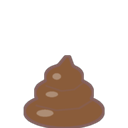
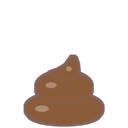
feat(art): poop takes the classic emoji outline and rolls heavily when thrown
Fat base, round upper lobe and a tip curling right, without a face, in both
round and pixel styles. Thrown poop still splats with almost no bounce but
now turns over as it slows instead of only sliding.

Claude-Session: https://claude.ai/code/session_01QTKFeeLBUNBZhj6R6jJCZF

diff --git a/ui/help.html b/ui/help.html
@@ -148,7 +148,7 @@
         <li>친구가 연결된 쪽(왼쪽·오른쪽·위·아래) 화면 끝으로 <b>세게 던지면</b> 친구 화면으로 날아가요. 돌아오지 않아요. 받은 물건은 화면에 20개까지 남고, 넘치면 오래된 것부터 사라져요.</li>
         <li><b>친구랑 놀기 ▸ 친구 이름 ▸ 🗑 물건 10개 던지기</b>: 여러 가지 쓰레기 10개를 친구 화면으로 던져요. 똥은 빠지고, 내 화면의 쓰레기도 그대로예요. 친구가 집중 중이거나 하우스 안이면 되돌아와요. 많이 던졌다면 나머지는 6초에 하나씩 날아가요.</li>
         <li>💩 <b>똥</b>: 마우스를 누를 때 화면 위 동물(놀러 온 친구 동물도)이 가끔 똥을 싸요. 자주 누르면 한 마리당 15~20분에 하나쯤이고, 싸고 나면 10~20분은 안 싸요. 누른 자리나 대상은 쓰지도 남기지도 않아요. 날아다니는 동물은 공중에서 떨어뜨리고, 똥은 둘둘 쌓인 모양이고, 토끼 똥은 동글동글 알갱이예요. <b>⚙ 설정 ▸ 💩 펫이 똥 싸기</b>로 끌 수 있어요 (꺼도 친구가 던진 똥은 받아요. 받기 싫으면 집중 모드나 하우스로 막아요). 집중 중, 자리 비움, 전체 화면, 모두 숨기기 중이거나 동물이 들려 있고 공중에 있고 먹는 중이면 안 싸요.</li>
-        <li>똥도 물건처럼 끌고 던지고 친구에게 보낼 수 있고 <b>이것만 치우기</b>·<b>쓰레기 다 치우기</b>로 치워요 (친구가 집중 중이거나 하우스 안이면 되돌아와요). 화면에 <b>10개</b>까지이고 넘치면 오래된 것부터, 그냥 둬도 <b>30분</b>쯤이면 스르륵 사라져요. 물건 수에는 세지 않고, 메뉴로 꺼낼 수 없고, 바람에 구르지 않고, 포스트잇도 못 붙여요.</li>
+        <li>똥도 물건처럼 끌고 던질 수 있어요. 철퍽 붙은 뒤 묵직하게 구르고, 친구에게 보낼 수 있고 <b>이것만 치우기</b>·<b>쓰레기 다 치우기</b>로 치워요 (친구가 집중 중이거나 하우스 안이면 되돌아와요). 화면에 <b>10개</b>까지이고 넘치면 오래된 것부터, 그냥 둬도 <b>30분</b>쯤이면 스르륵 사라져요. 물건 수에는 세지 않고, 메뉴로 꺼낼 수 없고, 바람에 구르지 않고, 포스트잇도 못 붙여요.</li>
         <li>걷던 동물이 앞의 똥을 보면 대개 "ew!" 하고 돌아서거나 뛰어넘어요. 가끔 못 보고 밟으면 꽈당 넘어졌다 투덜대며 일어나요.</li>
         <li><b>포스트잇</b>: 물건을 우클릭해 <b>포스트잇 붙이기…</b>로 한 줄(80자)을 써서 던져요. 받은 사람이 누르면 <b>10초</b> 보이고, 그 뒤엔 영영 사라져 다시 볼 수 없어요.</li>
       </ul>

diff --git a/crates/screenpet-core/src/tumble.rs b/crates/screenpet-core/src/tumble.rs
@@ -103,8 +103,8 @@ pub fn shape_of(kind: ObjectKind) -> Shape {
         ObjectKind::Milk => Shape { pivot: (64.0, 92.0), reach: 46.0, hull: &[(38.0, 92.0), (39.0, 80.0), (46.0, 52.0), (82.0, 52.0), (88.0, 76.0), (91.0, 111.0), (91.0, 115.0), (89.0, 127.0), (88.0, 128.0), (41.0, 128.0), (39.0, 126.0), (38.0, 115.0)] },
         ObjectKind::Sock => Shape { pivot: (62.0, 112.0), reach: 62.0, hull: &[(2.0, 111.0), (4.0, 100.0), (16.0, 94.0), (84.0, 93.0), (113.0, 97.0), (119.0, 100.0), (122.0, 107.0), (122.0, 119.0), (119.0, 125.0), (110.0, 128.0), (8.0, 128.0), (3.0, 124.0)] },
         ObjectKind::Umbrella => Shape { pivot: (67.0, 69.0), reach: 57.0, hull: &[(23.0, 67.0), (37.0, 50.0), (62.0, 31.0), (67.0, 31.0), (109.0, 43.0), (115.0, 45.0), (112.0, 75.0), (64.0, 123.0), (59.0, 124.0), (50.0, 122.0), (48.0, 120.0), (23.0, 75.0)] },
-        ObjectKind::Poop => Shape { pivot: (64.0, 99.0), reach: 45.0, hull: &[(24.0, 106.0), (45.0, 71.0), (65.0, 55.0), (70.0, 55.0), (83.0, 71.0), (103.0, 104.0), (104.0, 117.0), (93.0, 125.0), (82.0, 128.0), (46.0, 128.0), (29.0, 122.0), (24.0, 117.0)] },
-        ObjectKind::Dropping => Shape { pivot: (64.0, 107.0), reach: 34.0, hull: &[(35.0, 111.0), (50.0, 86.0), (64.0, 75.0), (69.0, 75.0), (86.0, 98.0), (93.0, 111.0), (93.0, 120.0), (90.0, 124.0), (80.0, 128.0), (48.0, 128.0), (38.0, 124.0), (35.0, 120.0)] },
+        ObjectKind::Poop => Shape { pivot: (64.0, 98.0), reach: 46.0, hull: &[(24.0, 103.0), (36.0, 79.0), (70.0, 55.0), (78.0, 57.0), (92.0, 79.0), (104.0, 103.0), (105.0, 111.0), (98.0, 121.0), (81.0, 126.0), (47.0, 126.0), (30.0, 121.0), (24.0, 114.0)] },
+        ObjectKind::Dropping => Shape { pivot: (64.0, 106.0), reach: 34.0, hull: &[(35.0, 109.0), (44.0, 91.0), (67.0, 75.0), (74.0, 75.0), (84.0, 91.0), (93.0, 109.0), (93.0, 119.0), (85.0, 125.0), (76.0, 127.0), (52.0, 127.0), (43.0, 125.0), (35.0, 119.0)] },
         ObjectKind::Pellets => Shape { pivot: (64.0, 116.0), reach: 48.0, hull: &[(19.0, 116.0), (21.0, 113.0), (39.0, 102.0), (45.0, 102.0), (105.0, 104.0), (109.0, 107.0), (110.0, 109.0), (110.0, 115.0), (107.0, 119.0), (91.0, 128.0), (22.0, 128.0), (19.0, 125.0)] },
     }
 }
@@ -148,8 +148,8 @@ pub fn heft_of(kind: ObjectKind) -> Heft {
         // 양말: 흐물흐물 — 천천히 돌다 철퍼덕 떨어져 거의 안 튀고 안 구른다
         ObjectKind::Sock => h(0.25, 380.0, 1500.0, 60.0, 18.0, 0.05, 0.35, 0.15, 25.0),
         ObjectKind::Umbrella => h(0.4, 600.0, 950.0, 34.0, 10.0, 0.2, 0.65, 0.55, 40.0),
-        // 똥: 말랑해서 철퍽 — 거의 안 튀고, 조금 미끄러지다 멈춘다
-        ObjectKind::Poop | ObjectKind::Dropping | ObjectKind::Pellets => h(0.3, 420.0, 1100.0, 40.0, 16.0, 0.04, 0.5, 0.2, 15.0),
+        // 똥: 철퍽 붙어 거의 안 튀고, 무겁게 데굴 구르다 멈춘다
+        ObjectKind::Poop | ObjectKind::Dropping | ObjectKind::Pellets => h(0.3, 420.0, 900.0, 18.0, 16.0, 0.04, 0.5, 0.2, 15.0),
     }
 }
 

diff --git a/tools/draw_objects.py b/tools/draw_objects.py
@@ -205,27 +205,28 @@ def draw_umbrella(img):
 
 
 def swirl(img, x0, x1, height, colour):
-    """둘둘 쌓인 똥: 아래로 갈수록 넓은 세 겹에 위로 뾰족한 꼭지. 겹 사이는 비스듬한 어두운 줄, 왼쪽 위가 밝다."""
+    """전형적인 똥 (얼굴 없는 💩): 뚱뚱한 아랫단, 둥근 윗단, 오른쪽으로 휘어 올라간 꼭지."""
     top = BOTTOM - height
     w, mid = x1 - x0, (x0 + x1) / 2
-    def y(f):
-        return top + height * f
-    def tier(half, y0, y1):
-        return E(mid - w * half, y(y0), mid + w * half, y(y1))
-    shapes = [tier(0.5, 0.56, 1.0), tier(0.36, 0.32, 0.72), tier(0.23, 0.14, 0.46),
-              T((mid - w * 0.1, y(0.2)), (mid + w * 0.05, y(0.0)), (mid + w * 0.13, y(0.24)))]
-    groove = mix(colour, LINE, 0.55)
+    def p(fx, fy):
+        return (mid + w * fx, top + height * fy)
+    def lobe(half, y0, y1, shift=0.0):
+        return E(mid + w * (shift - half), top + height * y0, mid + w * (shift + half), top + height * y1)
+    shapes = [lobe(0.5, 0.52, 0.965), lobe(0.46, 0.66, 0.965), lobe(0.36, 0.22, 0.68),
+              T(p(-0.19, 0.24), p(-0.06, 0.19), p(0.03, 0.13), p(0.085, 0.05), p(0.115, 0.0), p(0.145, 0.03), p(0.175, 0.12), p(0.19, 0.24), p(0.05, 0.34), p(-0.14, 0.34))]
+    groove = mix(colour, LINE, 0.6)
     shine = mix(colour, WHITE, 0.3)
-    blob(img, shapes, colour, r=1.0,
-         marks=[([L([(mid - w * 0.36, y(0.70)), (mid - w * 0.1, y(0.77)), (mid + w * 0.2, y(0.74)), (mid + w * 0.38, y(0.62))], 1.8),
-                  L([(mid - w * 0.23, y(0.42)), (mid - w * 0.03, y(0.49)), (mid + w * 0.14, y(0.47)), (mid + w * 0.26, y(0.37))], 1.6)], groove),
-                ([E(mid - w * 0.36, y(0.76), mid - w * 0.14, y(0.86))], shine),
-                ([E(mid - w * 0.24, y(0.50), mid - w * 0.08, y(0.58))], shine),
-                ([E(mid - w * 0.15, y(0.24), mid - w * 0.04, y(0.33))], shine)])
+    line = max(1.4, w * 0.026)
+    blob(img, shapes, colour, r=0.8,
+         marks=[([L([p(-0.33, 0.56), p(-0.15, 0.65), p(0.15, 0.65), p(0.33, 0.56)], line),
+                  L([p(-0.11, 0.29), p(0.02, 0.345), p(0.11, 0.31), p(0.175, 0.23)], line)], groove),
+                ([E(*p(-0.38, 0.70), *p(-0.2, 0.79))], shine),
+                ([E(*p(-0.24, 0.37), *p(-0.1, 0.45))], shine),
+                ([E(*p(0.03, 0.14), *p(0.1, 0.21))], shine)])
 
 
 def draw_poop(img):
-    """강아지 등 큰 동물의 똥: 소프트아이스크림처럼 둘둘 쌓인 갈색 똥."""
+    """강아지 등 큰 동물의 똥: 전형적인 모양의 갈색 똥."""
     swirl(img, 26, 102, 70, POOP)
 
 

diff --git a/tools/pixel_world_icons.py b/tools/pixel_world_icons.py
@@ -1573,16 +1573,16 @@ OBJECTS = {
         ........................
         ........................
         ........................
-        ...........ee...........
-        ..........eeee..........
-        .........eennee.........
-        .........eeeeeN.........
-        .......NNNNNNNNNN.......
-        ......eennneeeeeee......
+        ..............ee........
+        ...........eenneN.......
+        .........eeeeeeeN.......
+        .......eeeeNNNNNee......
+        ......eennneeeeeeN......
         ......eeeeeeeeeeeN......
         ......eeeeeeeeeeeN......
-        .....NNNNNNNNNNNNNN.....
-        ...eennneeeeeeeeeeeee...
+        ....eeNNNNNNNNNNNNee....
+        ...eennneeeeeeeeeeeeN...
+        ...eeeeeeeeeeeeeeeeeN...
         ...eeeeeeeeeeeeeeeeeN...
         ...eeeeeeeeeeeeeeeeeN...
         ...NeeeeeeeeeeeeeeeNN...
@@ -1603,15 +1603,15 @@ OBJECTS = {
         ........................
         ........................
         ........................
-        ...........dd...........
-        ..........dddd..........
-        .........DDDDDD.........
-        ........ddttdddd........
+        ............ddD.........
+        ..........dddDDd........
+        ........ddttdddD........
         ........dddddddD........
-        .......DDDDDDDDDD.......
-        ......ddttdddddddd......
-        ......dddddddddddD......
-        ......DdddddddddDD......
+        ......ddDDDDDDDDdd......
+        .....ddttdddddddddD.....
+        .....dddddddddddddD.....
+        .....dddddddddddddD.....
+        .....DdddddddddddDD.....
         .......DDDDDDDDDD.......
         ........................
         """,

diff --git a/tools/test_draw_objects.py b/tools/test_draw_objects.py
@@ -234,3 +234,21 @@ def test_poop_is_brown_and_the_small_kind_is_smaller_and_olive(built):
     assert small[1] > big[1] * 0.9 and small[0] - small[1] < big[0] - big[1], (small, big)
     area = lambda n: (np.asarray(arts[n].getchannel("A")) >= 128).sum()
     assert area("dropping") < area("poop") * 0.7
+
+
+@pytest.mark.parametrize("name", ["poop", "dropping"])
+def test_poop_has_the_classic_outline_not_an_oval(built, name):
+    """전형적인 똥: 단 사이 옆선이 안으로 꺾이고, 꼭지는 오른쪽으로 휜다."""
+    _, arts = built
+    a = np.asarray(arts[name].getchannel("A")) >= 128
+    ys, xs = a.nonzero()
+    w = xs.max() - xs.min() + 1
+    # 타원은 왼쪽 옆선이 볼록해 한 번 꺾이면 안으로 돌아오지 않는다: 위에서 내려오며 왼쪽 끝의 이동폭이 다시 커지면 단이 나뉜 것
+    lefts = [np.flatnonzero(row)[0] for row in a[ys.min(): ys.max() + 1]]
+    steps = [lefts[i] - lefts[i + 2] for i in range(len(lefts) - 2)]
+    drop = int(np.argmin(steps[len(steps) // 4: len(steps) * 3 // 4])) + len(steps) // 4
+    assert max(steps[drop:]) > steps[drop], steps
+    tip = np.flatnonzero(a[ys.min()]).mean()
+    assert tip > (xs.min() + xs.max()) / 2 + w * 0.05, (tip, xs.min(), xs.max())
+    # 바닥이 캔버스에 납작하게 잘리지 않는다
+    assert a[-1].sum() < w * 0.3, a[-1].sum()

diff --git a/crates/screenpet-core/src/object_tests.rs b/crates/screenpet-core/src/object_tests.rs
@@ -1221,3 +1221,34 @@ fn volley_pieces_are_random_trash_and_never_poop() {
     }
     assert_eq!(kinds.len(), ObjectKind::TRASH.len());
 }
+
+/// 던져서 바닥에 처음 닿은 뒤 다시 떠오른 가장 큰 높이
+fn rebound(kind: ObjectKind, w: &World) -> f64 {
+    let floor = w.bounds.bottom;
+    let mut o = thrown(kind, w, 300.0, (900.0, 600.0), 5);
+    let mut limit = LoopLimit::new();
+    while !o.is_rolling() && o.body.y < floor {
+        limit.step();
+        o.tick(DT, w, NONE, false);
+    }
+    let mut top = 0.0f64;
+    while !o.is_asleep() {
+        limit.step();
+        o.tick(DT, w, NONE, false);
+        top = top.max(floor - o.body.y);
+    }
+    top
+}
+
+#[test]
+fn a_thrown_poop_splats_then_rolls_heavily() {
+    let w = floor();
+    let (milk_went, _, _) = tumble(&mut thrown(ObjectKind::Milk, &w, 300.0, (900.0, -200.0), 5), &w);
+    for k in POOPS {
+        assert!(rebound(k, &w) < 12.0, "{k:?} bounced {}", rebound(k, &w));
+        let (went, turned, _) = tumble(&mut thrown(k, &w, 300.0, (900.0, -200.0), 5), &w);
+        assert!(went < milk_went * 0.75, "{k:?} went {went}, milk {milk_went}");
+        // 미끄러지기만 하지 않고 눈에 띄게 굴러 넘어간다
+        assert!(turned >= 180.0, "{k:?} turned {turned}");
+    }
+}

diff --git a/docs/releases/v0.5.0.md b/docs/releases/v0.5.0.md
@@ -13,7 +13,8 @@
 - **친구 삭제:** 친구가 나를 지우면, 다시 연결될 때 나에게서도 지워져요.
 - **설치 파일 축소:** 안 쓰는 그림을 지웠어요.
 - **🗑 물건 10개 던지기:** 친구 메뉴에서 누르면 여러 가지 쓰레기 10개를 친구 화면으로 던져요. 똥은 빠지고, 친구가 집중 중이거나 하우스 안이면 되돌아와요. 동료의 아이디어예요. 고마워요! 🎉
-- **똥 모양:** 소프트아이스크림처럼 둘둘 쌓인 모양으로 바꿨어요. 토끼는 그대로 알갱이예요.
+- **똥 모양:** 누구나 아는 전형적인 똥 모양으로 다시 그렸어요. 토끼는 그대로 알갱이예요.
+- **똥 구르기:** 똥을 던지면 철퍽 붙어 거의 안 튀고, 묵직하게 데굴 구르다 멈춰요.
 
 ### 안전
 코드 전체를 처음부터 끝까지 다시 읽어 점검했어요.
